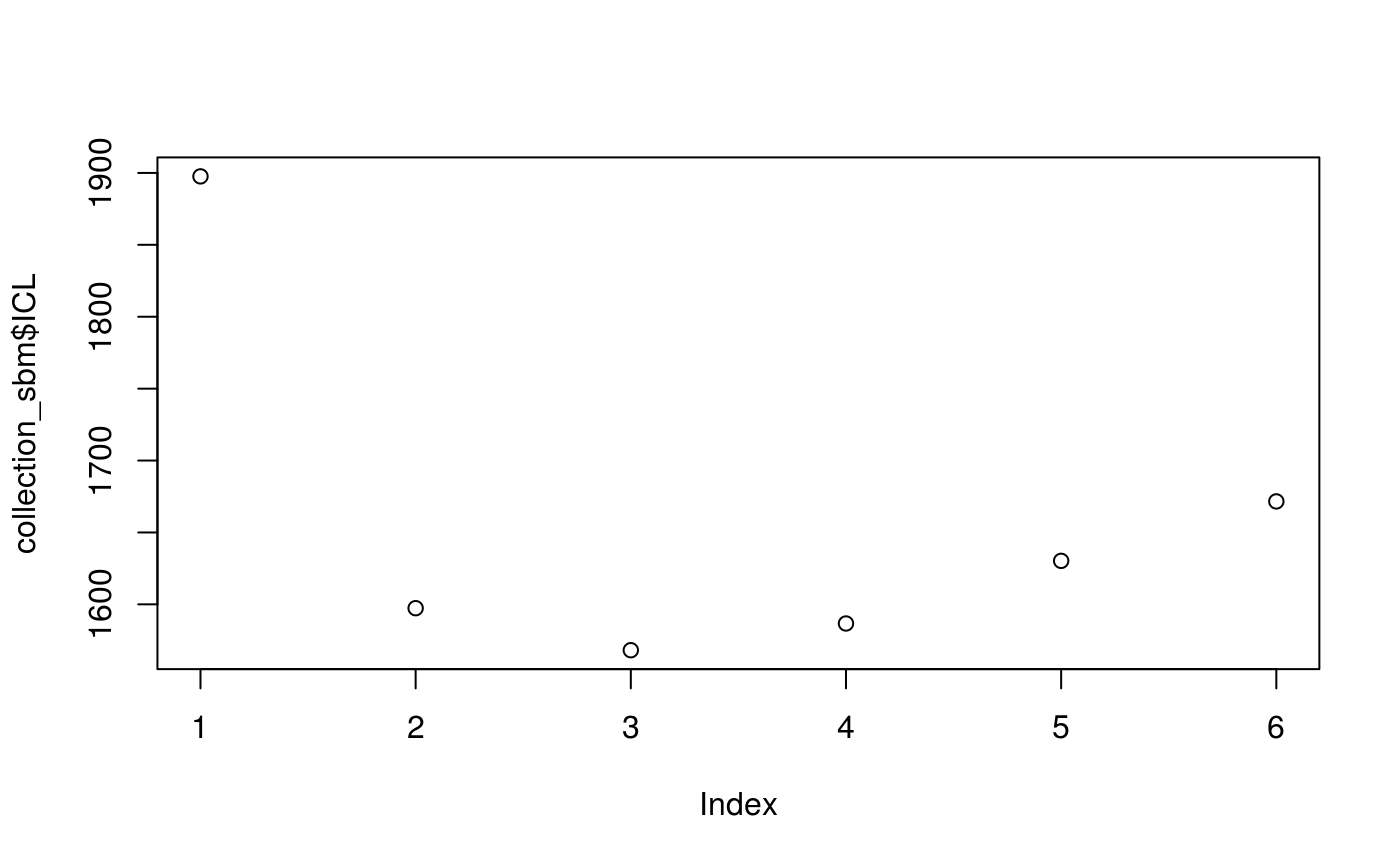
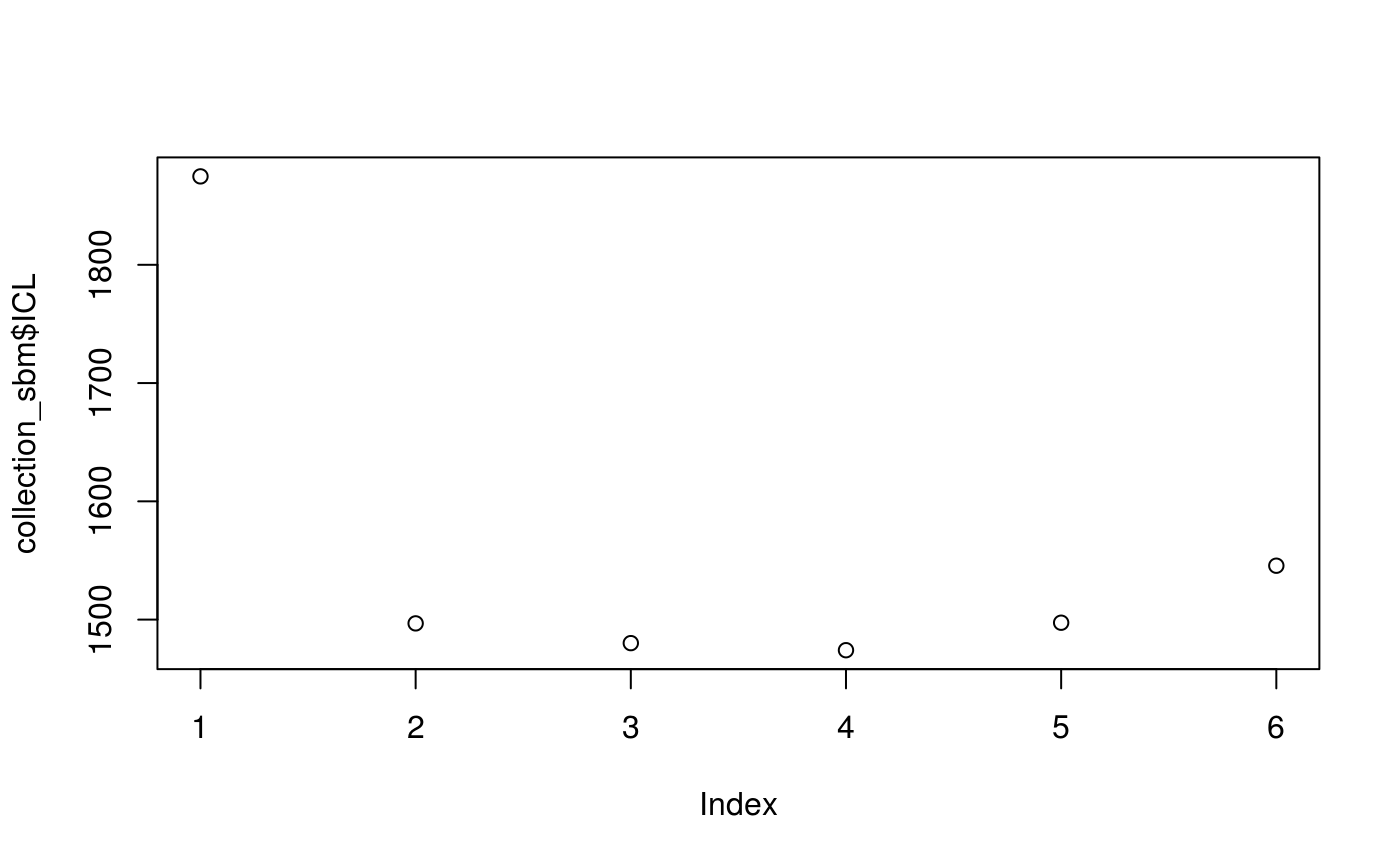
Deploy jchiquet/missSBM to github.com/jchiquet/missSBM.git:gh-pages

diff --git a/articles/introdution-to-misssbm.html b/articles/introdution-to-misssbm.html
@@ -119,13 +119,13 @@
 <h3 class="hasAnchor">
 <a href="#missing-data" class="anchor"></a>Missing data</h3>
 <p>Some data may be missing for some countries in the sense that data were collected comprehensively for a subset of countries and for the other countries we only observe their edges with the first subset and not within them. More precisely, we can assume that the sampling is node-centered, therefore there is block of missing data on the diagonal of the adjacency matrix.</p>
-<div class="sourceCode" id="cb12"><pre class="sourceCode r"><code class="sourceCode r"><a class="sourceLine" id="cb12-1" data-line-number="1">Awar &lt;-<span class="st"> </span><span class="kw"><a href="https://www.rdocumentation.org/packages/base/topics/matrix">as.matrix</a></span>(<span class="kw"><a href="https://www.rdocumentation.org/packages/igraph/topics/as_adjacency_matrix">get.adjacency</a></span>(war_graphs<span class="op">$</span>beligerent))</a>
-<a class="sourceLine" id="cb12-2" data-line-number="2">sampling &lt;-<span class="st"> "node"</span></a>
-<a class="sourceLine" id="cb12-3" data-line-number="3">samplingParameters &lt;-<span class="st"> </span><span class="kw"><a href="https://www.rdocumentation.org/packages/base/topics/c">c</a></span>(.<span class="dv">6</span>)</a>
-<a class="sourceLine" id="cb12-4" data-line-number="4">sampledNetwar &lt;-<span class="st"> </span>missSBM<span class="op">::</span><span class="kw"><a href="https://www.rdocumentation.org/packages/missSBM/topics/sample">sample</a></span>(Awar, sampling, samplingParameters)</a>
-<a class="sourceLine" id="cb12-5" data-line-number="5">Awarspld &lt;-<span class="st"> </span>sampledNetwar<span class="op">$</span>adjMatrix</a></code></pre></div>
+<div class="sourceCode" id="cb12"><pre class="sourceCode r"><code class="sourceCode r"><a class="sourceLine" id="cb12-1" data-line-number="1">sampledNet_war &lt;-<span class="st"> </span>war_graphs<span class="op">$</span>beligerent <span class="op">%&gt;%</span><span class="st"> </span></a>
+<a class="sourceLine" id="cb12-2" data-line-number="2"><span class="st">  </span><span class="kw"><a href="https://www.rdocumentation.org/packages/igraph/topics/as_adjacency_matrix">as_adj</a></span>(<span class="dt">sparse =</span> <span class="ot">FALSE</span>) <span class="op">%&gt;%</span><span class="st"> </span>missSBM<span class="op">::</span><span class="kw"><a href="https://www.rdocumentation.org/packages/missSBM/topics/sample">sample</a></span>(<span class="dt">sampling =</span> <span class="st">"node"</span>, <span class="dt">parameters =</span> <span class="fl">.6</span>)</a>
+<a class="sourceLine" id="cb12-3" data-line-number="3"><span class="kw"><a href="https://www.rdocumentation.org/packages/graphics/topics/plot">plot</a></span>(sampledNet_war)</a></code></pre></div>
+<p><img src="introdution-to-misssbm_files/figure-html/sampling-1.png" width="700"></p>
 <div class="sourceCode" id="cb13"><pre class="sourceCode r"><code class="sourceCode r"><a class="sourceLine" id="cb13-1" data-line-number="1">vBlocks &lt;-<span class="st"> </span><span class="dv">1</span><span class="op">:</span><span class="dv">6</span></a>
-<a class="sourceLine" id="cb13-2" data-line-number="2">collection_sbm &lt;-<span class="st"> </span>missSBM<span class="op">::</span><span class="kw"><a href="https://www.rdocumentation.org/packages/missSBM/topics/estimate">estimate</a></span>(Awarspld, vBlocks, sampling,<span class="dt">clusterInit =</span> <span class="st">"spectral"</span>, <span class="dt">cores =</span> <span class="dv">2</span>)</a></code></pre></div>
+<a class="sourceLine" id="cb13-2" data-line-number="2">collection_sbm &lt;-<span class="st"> </span>sampledNet_war<span class="op">$</span>adjMatrix <span class="op">%&gt;%</span><span class="st"> </span></a>
+<a class="sourceLine" id="cb13-3" data-line-number="3"><span class="st">  </span>missSBM<span class="op">::</span><span class="kw"><a href="https://www.rdocumentation.org/packages/missSBM/topics/estimate">estimate</a></span>(<span class="dt">vBlocks =</span> vBlocks, <span class="dt">sampling =</span> <span class="st">"node"</span>, <span class="dt">clusterInit =</span> <span class="st">"spectral"</span>, <span class="dt">cores =</span> <span class="dv">2</span>)</a></code></pre></div>
 <pre><code>## 
 ## 
 ##  Adjusting Variational EM for Stochastic Block Model
@@ -133,20 +133,24 @@
 ##  Imputation assumes a 'node' network-sampling process</code></pre>
 <div class="sourceCode" id="cb15"><pre class="sourceCode r"><code class="sourceCode r"><a class="sourceLine" id="cb15-1" data-line-number="1"><span class="kw"><a href="https://www.rdocumentation.org/packages/graphics/topics/plot">plot</a></span>(collection_sbm<span class="op">$</span>ICL)</a></code></pre></div>
 <p><img src="introdution-to-misssbm_files/figure-html/plotICL-1.png" width="700"></p>
-<div class="sourceCode" id="cb16"><pre class="sourceCode r"><code class="sourceCode r"><a class="sourceLine" id="cb16-1" data-line-number="1"><span class="kw"><a href="../reference/smooth.html">smooth</a></span>(collection_sbm, <span class="st">"forward"</span>)</a></code></pre></div>
+<div class="sourceCode" id="cb16"><pre class="sourceCode r"><code class="sourceCode r"><a class="sourceLine" id="cb16-1" data-line-number="1"><span class="kw"><a href="../reference/smooth.html">smooth</a></span>(collection_sbm, <span class="st">"both"</span>, <span class="dt">iterates =</span> <span class="dv">2</span>, <span class="dt">cores =</span> <span class="dv">2</span>)</a></code></pre></div>
 <pre><code>## 
 ##  Smoothing ICL
 ##    Going forward +++++
-                                                                                                    </code></pre>
+                                                                                                    
+   Going backward +++++   Going forward +++++
+                                                                                                    
+   Going backward +++++</code></pre>
 <div class="sourceCode" id="cb18"><pre class="sourceCode r"><code class="sourceCode r"><a class="sourceLine" id="cb18-1" data-line-number="1"><span class="kw"><a href="https://www.rdocumentation.org/packages/graphics/topics/plot">plot</a></span>(collection_sbm<span class="op">$</span>ICL)</a></code></pre></div>
 <p><img src="introdution-to-misssbm_files/figure-html/smoothed-1.png" width="700"></p>
 <div class="sourceCode" id="cb19"><pre class="sourceCode r"><code class="sourceCode r"><a class="sourceLine" id="cb19-1" data-line-number="1"><span class="kw"><a href="https://www.rdocumentation.org/packages/base/topics/table">table</a></span>(collection_sbm<span class="op">$</span>bestModel<span class="op">$</span>fittedSBM<span class="op">$</span>memberships)</a></code></pre></div>
 <pre><code>## 
-##  1  2  3 
-## 58 15 19</code></pre>
+##  1  2  3  4 
+##  8 39 35 10</code></pre>
 <p>We compare with clusterings obtained with the fully observed network.</p>
-<div class="sourceCode" id="cb21"><pre class="sourceCode r"><code class="sourceCode r"><a class="sourceLine" id="cb21-1" data-line-number="1">vBlocks &lt;-<span class="st"> </span><span class="dv">1</span><span class="op">:</span><span class="dv">6</span></a>
-<a class="sourceLine" id="cb21-2" data-line-number="2">collection_sbm_full &lt;-<span class="st"> </span>missSBM<span class="op">::</span><span class="kw"><a href="https://www.rdocumentation.org/packages/missSBM/topics/estimate">estimate</a></span>(Awar, vBlocks, sampling, <span class="dt">clusterInit =</span> <span class="st">"hierarchical"</span>, <span class="dt">cores =</span> <span class="dv">1</span>, <span class="dt">trace =</span> <span class="ot">TRUE</span>)</a></code></pre></div>
+<div class="sourceCode" id="cb21"><pre class="sourceCode r"><code class="sourceCode r"><a class="sourceLine" id="cb21-1" data-line-number="1">collection_sbm_full &lt;-<span class="st"> </span>war_graphs<span class="op">$</span>beligerent <span class="op">%&gt;%</span><span class="st"> </span></a>
+<a class="sourceLine" id="cb21-2" data-line-number="2"><span class="st">  </span><span class="kw"><a href="https://www.rdocumentation.org/packages/igraph/topics/as_adjacency_matrix">as_adj</a></span>(<span class="dt">sparse =</span> <span class="ot">FALSE</span>) <span class="op">%&gt;%</span><span class="st"> </span></a>
+<a class="sourceLine" id="cb21-3" data-line-number="3"><span class="st">  </span>missSBM<span class="op">::</span><span class="kw"><a href="https://www.rdocumentation.org/packages/missSBM/topics/estimate">estimate</a></span>(<span class="dt">vBlocks =</span> vBlocks, <span class="st">"node"</span>, <span class="dt">clusterInit =</span> <span class="st">"hierarchical"</span>, <span class="dt">cores =</span> <span class="dv">1</span>, <span class="dt">trace =</span> <span class="ot">TRUE</span>)</a></code></pre></div>
 <pre><code>## 
 ## 
 ##  Adjusting Variational EM for Stochastic Block Model
@@ -165,8 +169,16 @@
  Performing VEM inference for model with 4 blocks.
  Performing VEM inference for model with 5 blocks.
  Performing VEM inference for model with 6 blocks.</code></pre>
-<div class="sourceCode" id="cb23"><pre class="sourceCode r"><code class="sourceCode r"><a class="sourceLine" id="cb23-1" data-line-number="1">collection_sbm_full<span class="op">$</span>ICL</a></code></pre></div>
-<pre><code>## [1] NaN NaN NaN NaN NaN NaN</code></pre>
+<div class="sourceCode" id="cb23"><pre class="sourceCode r"><code class="sourceCode r"><a class="sourceLine" id="cb23-1" data-line-number="1"><span class="kw"><a href="../reference/smooth.html">smooth</a></span>(collection_sbm_full, <span class="st">"both"</span>, <span class="dt">iterates =</span> <span class="dv">2</span>)</a></code></pre></div>
+<pre><code>## 
+##  Smoothing ICL
+##    Going forward +++++
+                                                                                                    
+   Going backward +++++   Going forward +++++
+                                                                                                    
+   Going backward +++++</code></pre>
+<div class="sourceCode" id="cb25"><pre class="sourceCode r"><code class="sourceCode r"><a class="sourceLine" id="cb25-1" data-line-number="1"><span class="kw"><a href="https://www.rdocumentation.org/packages/graphics/topics/plot">plot</a></span>(collection_sbm_full<span class="op">$</span>ICL)</a></code></pre></div>
+<p><img src="introdution-to-misssbm_files/figure-html/inferencewfull-1.png" width="700"></p>
 </div>
 </div>
   </div>
